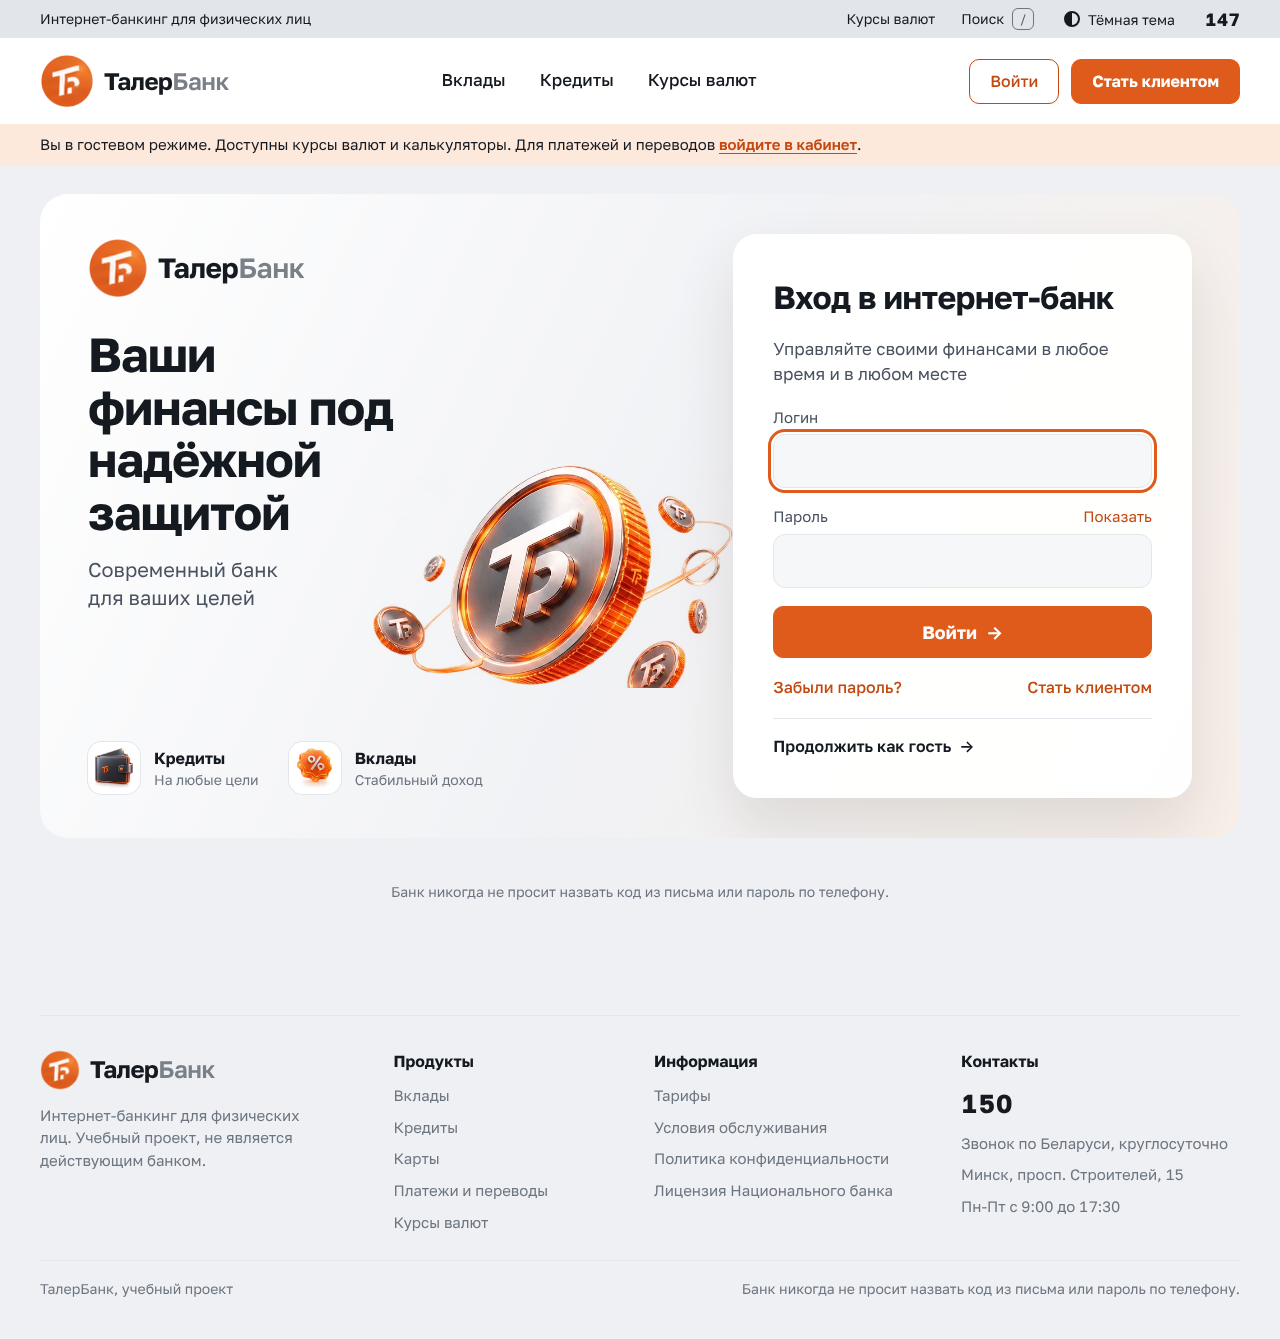
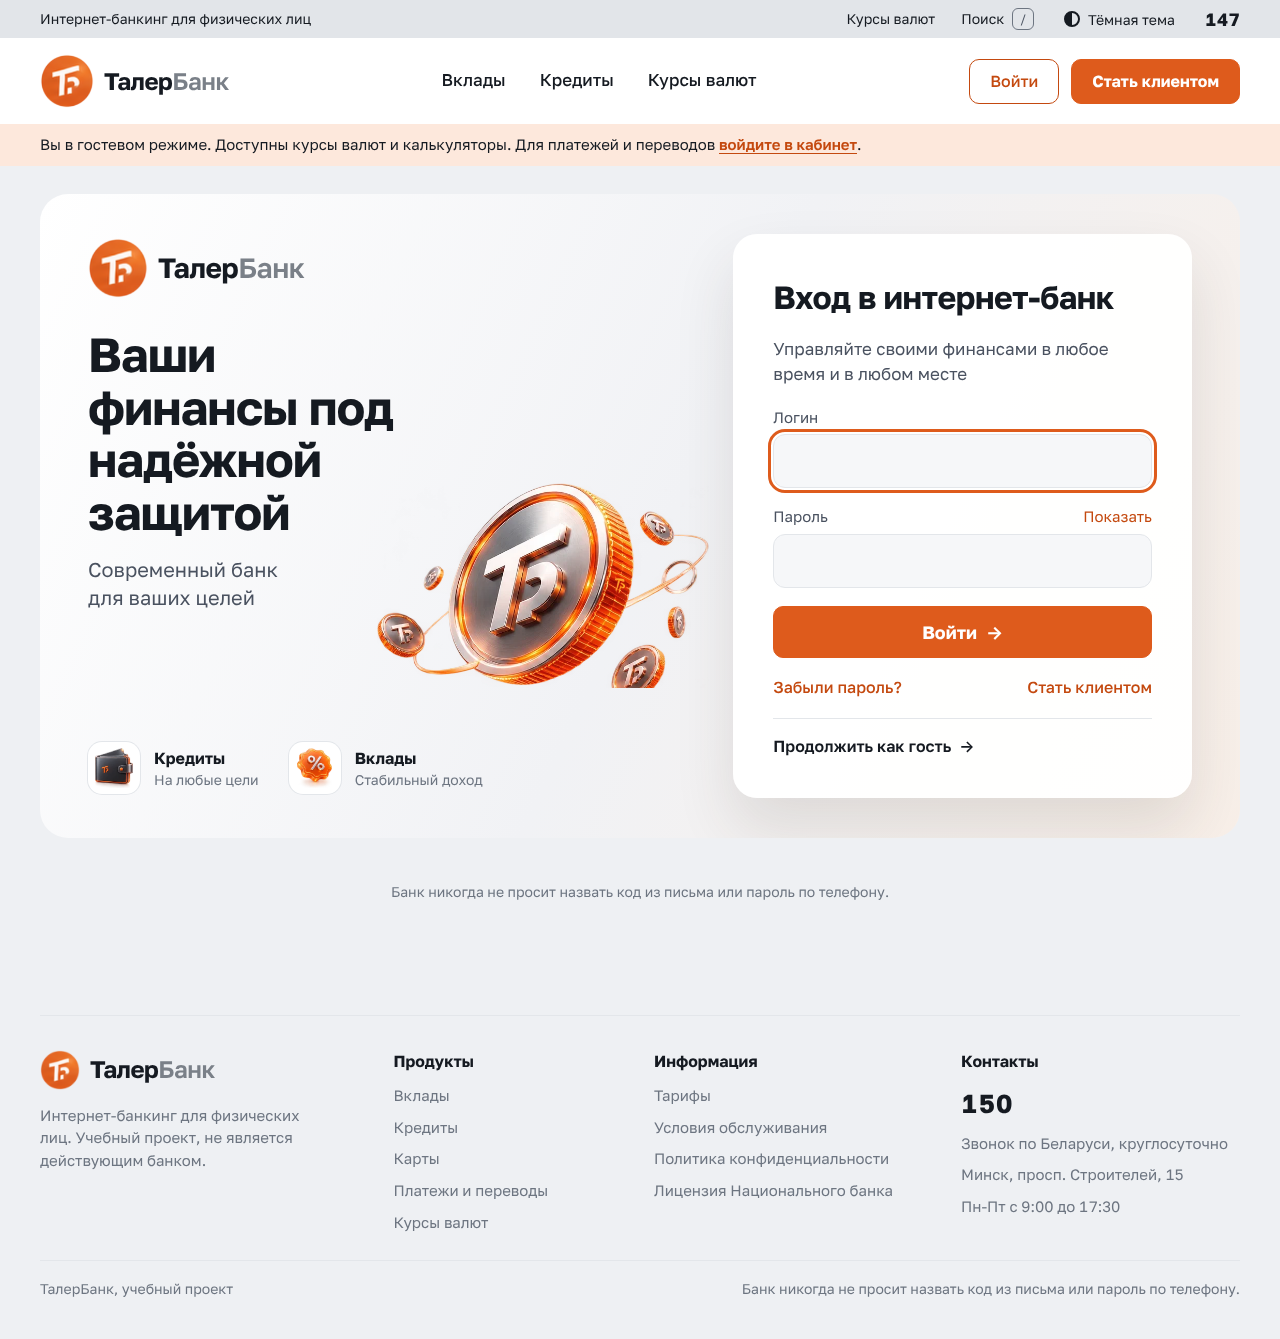
Вертикальная форма регистрации и монета на входе целиком
Анкета «Стать клиентом» выстроена в одну колонку (поля друг под
другом, ширина 640). Монета с орбитой на странице входа больше
не обрезается краем блока. Скриншоты 02 и 04 пересняты.

Claude-Session: https://claude.ai/code/session_01RiXyyD8SZ769gYxw2orVk1

Changed region(s): [[0.2812, 0.3368, 0.5625, 0.5205]]

diff --git a/client/js/modules/auth/pages/register.js b/client/js/modules/auth/pages/register.js
@@ -16,24 +16,20 @@ export default async function page({ navigate }) {
     title: 'Стать клиентом',
     body: html`<h1 class="h-ico"><img src="/img/3d/laptop.webp" alt="" width="64" height="64">Стать клиентом</h1>
 <p class="muted m0 measure">Заполните анкету. Сотрудник банка проверит данные, после этого вам откроют первый счёт.</p>
-<form class="tile form" id="register-form" novalidate>
+<form class="tile form w640" id="register-form" novalidate>
   <h2>Личные данные</h2>
-  <div class="form-grid">
-    ${field('lastName', 'Фамилия')}
-    ${field('firstName', 'Имя')}
-    ${field('patronymic', 'Отчество')}
-    ${field('birthDate', 'Дата рождения', { type: 'date' })}
-    ${field('idNumber', 'Идентификационный номер', { hint: 'Из паспорта, например 3010590A001PB4' })}
-    ${field('passport', 'Серия и номер паспорта', { hint: 'Например MC1234567' })}
-    ${field('phone', 'Телефон', { type: 'tel', hint: '+375291234567' })}
-    ${field('email', 'Электронная почта', { type: 'email' })}
-  </div>
+  ${field('lastName', 'Фамилия')}
+  ${field('firstName', 'Имя')}
+  ${field('patronymic', 'Отчество')}
+  ${field('birthDate', 'Дата рождения', { type: 'date' })}
+  ${field('idNumber', 'Идентификационный номер', { hint: 'Из паспорта, например 3010590A001PB4' })}
+  ${field('passport', 'Серия и номер паспорта', { hint: 'Например MC1234567' })}
+  ${field('phone', 'Телефон', { type: 'tel', hint: '+375291234567' })}
+  ${field('email', 'Электронная почта', { type: 'email' })}
   <h2 class="mt10">Доступ в кабинет</h2>
-  <div class="form-grid">
-    ${field('login', 'Логин', { autocomplete: 'username', hint: 'Латинские буквы, цифры, точка, дефис' })}
-    ${field('password', 'Пароль', { type: 'password', autocomplete: 'new-password', hint: 'Не короче 8 символов, буквы и цифры' })}
-    ${field('passwordRepeat', 'Повторите пароль', { type: 'password', autocomplete: 'new-password' })}
-  </div>
+  ${field('login', 'Логин', { autocomplete: 'username', hint: 'Латинские буквы, цифры, точка, дефис' })}
+  ${field('password', 'Пароль', { type: 'password', autocomplete: 'new-password', hint: 'Не короче 8 символов, буквы и цифры' })}
+  ${field('passwordRepeat', 'Повторите пароль', { type: 'password', autocomplete: 'new-password' })}
   ${formError()}
   <div><button class="btn btn--lg" type="submit">Отправить заявку</button></div>
 </form>`,

diff --git a/client/css/style.css b/client/css/style.css
@@ -385,7 +385,7 @@ html.dark .metric{box-shadow:inset 0 0 0 1px rgba(255,255,255,.045)}
 .auth__top{display:flex;flex-direction:column;gap:30px;position:relative;z-index:2}
 .logo--lg{font-size:28px}
 .auth__lead{margin:16px 0 0;font-size:20px;line-height:1.4;color:var(--muted);max-width:18ch}
-.auth__coin{position:absolute;right:-10px;bottom:150px;width:400px;max-width:56%;height:auto;pointer-events:none}
+.auth__coin{position:absolute;right:30px;bottom:140px;width:380px;max-width:52%;height:auto;pointer-events:none}
 .auth__links{display:flex;flex-wrap:wrap;gap:14px 30px;position:relative;z-index:2}
 .auth__links a{display:flex;align-items:center;gap:14px}
 .auth__links b{display:block;font-size:16px}
@@ -403,7 +403,7 @@ html.dark .metric{box-shadow:inset 0 0 0 1px rgba(255,255,255,.045)}
 .info p{margin:0;line-height:1.55;color:var(--muted)}
 .auth__side{position:relative;flex:1.4 1 600px;min-width:0}
 .auth__panel{flex:1 1 440px;padding-left:0}
-.auth__coin{right:0;bottom:150px;width:380px;max-width:52%}
+.auth__coin{right:24px;bottom:150px;width:340px;max-width:48%}
 
 /* Гостевая главная: преимущества, шаги, баннер карты */
 .sec-title{font-size:30px;margin:0 0 20px}
